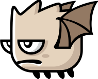
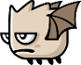
added legde, smaller flyer

diff --git a/game/src/main.js b/game/src/main.js
@@ -29,9 +29,14 @@ require(objectFiles, function () {
         ["BadgeGuard", {x: 600, y: 1800, asset: "enemies/walker.png"}],
         ["VerticalEnemyToAvoid", {x: 800, y: 1950, asset: "enemies/flyer.png"}],
         ["EnemyToKill", {x: 280, y: 910, asset: "enemies/slider.png"}],
-        ["EnemyToKill", {x: 500, y: 910, asset: "enemies/moman.png"}],
-        ["EnemyToKillFast", {x: 900, y: 910, asset: "enemies/moman.png"}],
+        ["EnemyToKill", {x: 490, y: 1190, asset: "enemies/moman.png"}],
+        ["VerticalEnemyToAvoid", {x: 1080, y: 1260, asset: "enemies/flyer.png"}],
+        ["EnemyToKillFast", {x: 1100, y: 910, asset: "enemies/moman.png"}],
+        ["EnemyToKillFast", {x: 700, y: 910, asset: "enemies/moman.png"}],
+        ["VerticalEnemyToAvoid", {x: 340, y: 350, asset: "enemies/flyer.png"}],
+        ["VerticalEnemyToAvoid", {x: 740, y: 350, asset: "enemies/flyer.png"}],
 //        ["Badge", {x: 450, y: 1800, asset: "badge.png"}], //todo get rid of or assimilate functionality
+        ["Recommendation", {x: 455, y: 1890 , asset: "book.png"}],
         ["Recommendation", {x: 1100, y: 1600, asset: "book.png"}], //todo star and coffee one collectable, change name of 'reccomendation'
         ["Recommendation", {x: 1260, y: 1190, asset: "book.png"}], //todo get rid of or assimilate coffee (life++) which was here
         ["EndGame", {x: 105, y: 70, asset: "exit.png"}]
@@ -181,6 +186,6 @@ require(objectFiles, function () {
 
     Q.state.on("change.recommendations", function() {
         var info_label = Q("UI.Text", 1).at(3);
-        info_label.p.label = "Keys: "+ Q.state.p.recommendations;
+        info_label.p.label = "Books: "+ Q.state.p.recommendations;
     });
 });

diff --git a/game/src/sprites/player.js b/game/src/sprites/player.js
@@ -1,9 +1,10 @@
 require([], function () {
     Q.Sprite.extend("Player",{
         init: function(p) {
-          this._super(p, { asset: "nielek.png", x: 70, y: 1960, jumpSpeed: -540 ,timeInvincible: 1});
-//          this._super(p, { asset: "nielek.png", x: 560, y: 1260, jumpSpeed: -540 ,timeInvincible: 1}); // mid level test location
-//          this._super(p, { asset: "nielek.png", x: 400, y: 280, jumpSpeed: -540 ,timeInvincible: 1}); // end-game test location
+          this._super(p, { asset: "nielek.png", x: 105, y: 1750, jumpSpeed: -540 ,timeInvincible: 1});
+//          this._super(p, { asset: "nielek.png", x: 560, y: 1260, jumpSpeed: -540 ,timeInvincible: 1}); // 1st level test location
+//          this._super(p, { asset: "nielek.png", x: 770, y: 630, jumpSpeed: -540 ,timeInvincible: 1}); // 2nd level test location
+//          this._super(p, { asset: "nielek.png", x: 840, y: 350, jumpSpeed: -540 ,timeInvincible: 1}); // end-game test location
           this.add('2d, platformerControls');
         },
         step: function(dt) {
